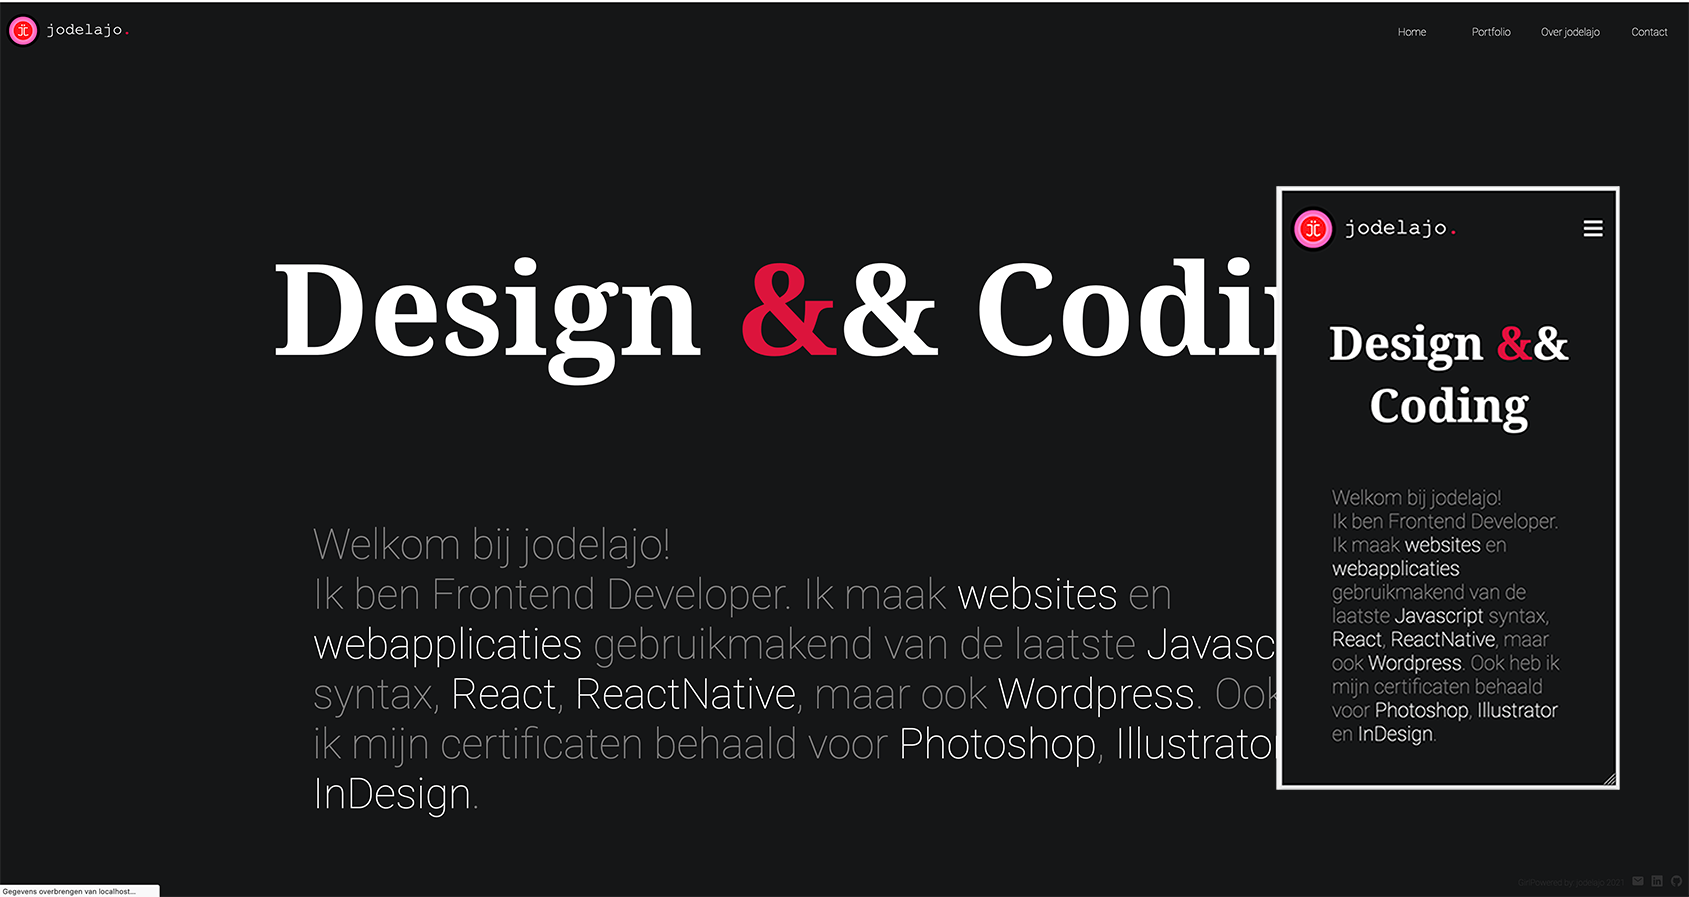
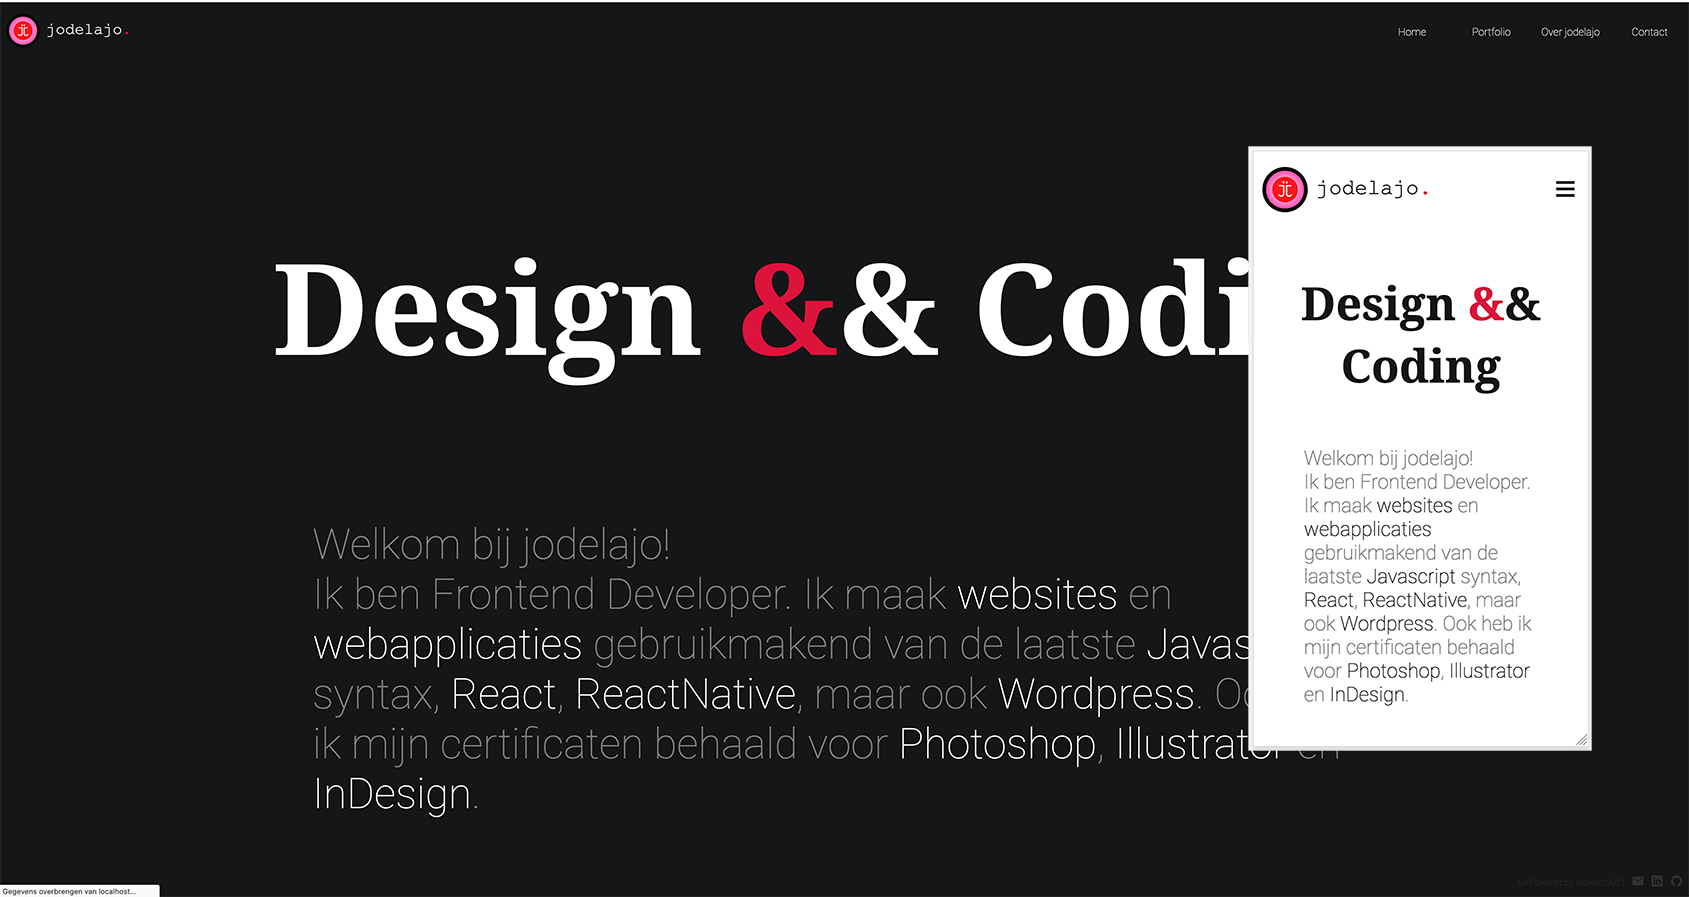
readme

Changed region(s): [[0.7389, 0.1561, 0.9544, 0.874], [0.7697, 0.874, 0.9544, 0.9052], [0.9544, 0.8428, 0.9852, 0.874]]

diff --git a/src/App.js b/src/App.js
@@ -1,4 +1,4 @@
-import React, {useState } from "react";
+import React, { useState } from "react";
 import "./App.css";
 import "./theme.css";
 import { Route, Switch } from "react-router-dom";
@@ -11,35 +11,32 @@ import Contact from "./pages/contact/Contact";
 import Footer from "./components/footer/Footer";
 
 function App() {
-  const [theme, setTheme] = useState('light');
+  const [theme, setTheme] = useState("dark");
 
   function themeHandler() {
-    if(theme === 'light'){
-    setTheme('dark')}
-    else {
-      setTheme('light')
+    if (theme === "light") {
+      setTheme("dark");
+    } else {
+      setTheme("light");
     }
   }
 
   return (
     <div className={`App ${theme}`}>
-    <div className="app-container">
-      <NavBar />
+      <div className="app-container">
+        <NavBar />
 
-      <Switch>
-        <Route exact path="/" component={Home} />
-        <Route path="/portfolioscreen" component={PortfolioScreen} />
-        <Route path="/singleportfolio/:slug" component={SinglePortfolio} />
-        <Route path="/about" component={About} />
-        <Route path="/contact" component={Contact} />
-      </Switch>
-     <span className="footer">
-     <Footer themeHandler={themeHandler}/>
-
-     </span>
-      
-      
-    </div>
+        <Switch>
+          <Route exact path="/" component={Home} />
+          <Route path="/portfolioscreen" component={PortfolioScreen} />
+          <Route path="/singleportfolio/:slug" component={SinglePortfolio} />
+          <Route path="/about" component={About} />
+          <Route path="/contact" component={Contact} />
+        </Switch>
+        <span className="footer">
+          <Footer themeHandler={themeHandler} />
+        </span>
+      </div>
     </div>
   );
 }

diff --git a/src/theme.css b/src/theme.css
@@ -12,6 +12,6 @@
     --colors-background: #151617;
     --colors-accent: rgb(220,20,60);
     --colors-portfolio: rgb(124, 123, 123);
-    --colors-content: #222324;
+    --colors-content: rgb(124, 123, 123);
     --colors-footer: #303031;
 }

diff --git a/README.md b/README.md
@@ -11,6 +11,17 @@ This project was bootstrapped with [Create React App](https://github.com/faceboo
 ![applicatie_example](public/portfolio/double_screenshot_jodelajo.png)
 
 
+## Portfolio website:
+- Responsive
+- Dark/Light mode
+- portfolio met categorieen en single page
+- simpel contactformulier
+
+### Gebruikte dependencies:
+- React-Router-dom
+- React Icons
+- Emailjs-com
+
 
 
 
